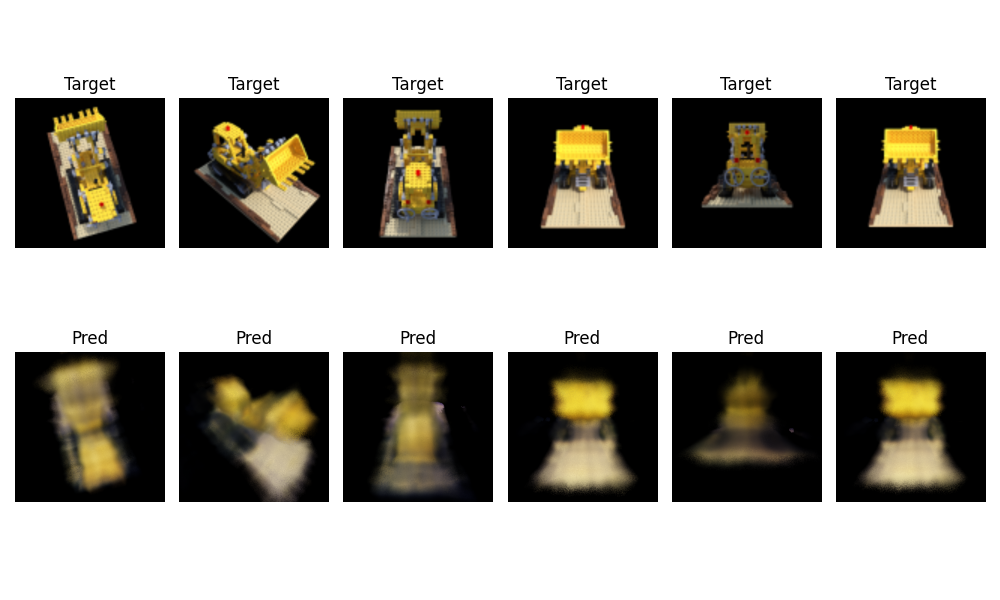
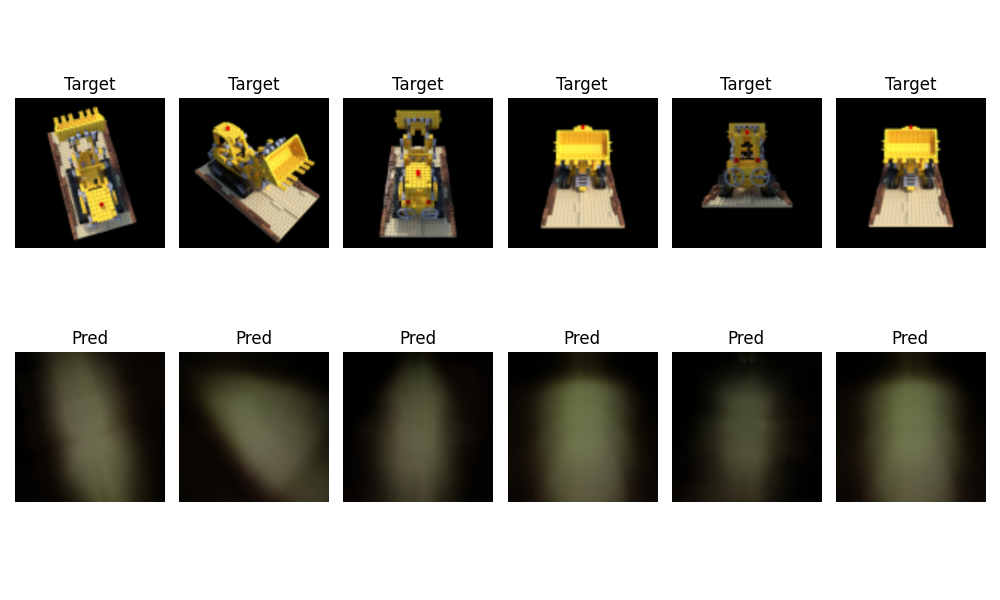
hashencoding

diff --git a/utils/hashencoder/feature_field.py b/utils/hashencoder/feature_field.py
@@ -1,0 +1,80 @@
+
+# Heavily drew from
+# NeRF Studio: https://github.com/nerfstudio-project/nerfstudio/blob/bc9328c7ff70045fce21838122f48ab5201c4ae3/nerfstudio/field_components/encodings.py#L310
+# hashNeRF: https://github.com/yashbhalgat/HashNeRF-pytorch/blob/780f4bb8dedb1d5a9af23fae226973e79cbcc48e/run_nerf_helpers.py#L66
+
+import torch
+import torch.nn as nn
+import math
+class FeatureField(nn.Module): #hashmap_scale=.0001, res=1024
+    def __init__(self, hashmap_scale=1, log2_hashmap_size=19, features_per_level=2, res=1024):
+        super().__init__()
+        self.hashtable_size = 2**log2_hashmap_size
+        self.features_per_level = features_per_level
+        self.res = res
+        # Init the hash table (also i think that it should specify device automatically?????)
+        self.hashtable = torch.rand(size = (self.hashtable_size * 1, features_per_level), device='cuda:0') * 2 - 1 # table_size * levels * features_per_level
+        self.hashtable *= hashmap_scale
+        self.hashtable = nn.Parameter(self.hashtable)
+
+
+    #FOR NOW im assuming x.shape = (3)
+    def encode(self, x):
+        x_reshaped = x.reshape(-1, 3)
+        x_scaled = x_reshaped * self.res
+
+        x_floor = torch.floor(x_scaled).int()
+        x_ceil = torch.ceil(x_scaled).int()
+
+        h0 = self.hash(torch.stack((x_floor[ : , 0], x_floor[ : , 1], x_floor[ : , 2]))) #000
+        h1 = self.hash(torch.stack((x_ceil[ : , 0], x_floor[ : , 1], x_floor[ : , 2]))) #100
+        h2 = self.hash(torch.stack((x_floor[ : , 0], x_ceil[ : , 1], x_floor[ : , 2]))) #010
+        h3 = self.hash(torch.stack((x_floor[ : , 0], x_floor[ : , 1], x_ceil[ : , 2]))) #001
+        h4 = self.hash(torch.stack((x_ceil[ : , 0], x_ceil[ : , 1], x_floor[ : , 2]))) #110
+        h5 = self.hash(torch.stack((x_ceil[ : , 0], x_floor[ : , 1], x_ceil[ : , 2]))) #101
+        h6 = self.hash(torch.stack((x_floor[ : , 0], x_ceil[ : , 1], x_ceil[ : , 2]))) #011
+        h7 = self.hash(torch.stack((x_ceil[ : , 0], x_ceil[ : , 1], x_ceil[ : , 2]))) #111
+
+        # hash all points
+        v0 = self.hashtable[h0]
+        v1 = self.hashtable[h1]
+        v2 = self.hashtable[h2]
+        v3 = self.hashtable[h3]
+        v4 = self.hashtable[h4]
+        v5 = self.hashtable[h5]
+        v6 = self.hashtable[h6]
+        v7 = self.hashtable[h7]
+
+        x_difference = x_scaled - x_floor
+        encoded = self.trilinear_interpolation(x_difference, v0, v1, v2, v3, v4, v5, v6, v7)
+
+        output_shape = x.shape[:-1] + (-1,)
+        return encoded.reshape(output_shape)
+                
+    #assume 1 point
+    def hash(self, x):
+        prime0 = 1
+        prime1 = 2654435761
+        prime2 = 805459861
+        result = (prime0 * x[0]) ^ (prime1 * x[1]) ^ (prime2 * x[2])
+        return result % self.hashtable_size
+
+
+    # https://en.wikipedia.org/wiki/Trilinear_interpolation
+    def trilinear_interpolation(self, p_d, c_000, c_100, c_010, c_001, c_110, c_101, c_011, c_111):
+        #interpolate along x
+        # print(p_d[:, 0][:, None])
+        c_00 = c_000 * (1-p_d[:, 0][:, None]) + c_100 * p_d[:, 0][:, None]
+        c_01 = c_001 * (1-p_d[:, 0][:, None]) + c_101 * p_d[:, 0][:, None]
+        c_10 = c_010 * (1-p_d[:, 0][:, None]) + c_110 * p_d[:, 0][:, None]
+        c_11 = c_010 * (1-p_d[:, 0][:, None]) + c_111 * p_d[:, 0][:, None]
+
+        #interpolate along y
+        c_0 = c_00 * (1-p_d[:, 1][:, None]) + c_10 * p_d[:, 1][:, None]
+        c_1 = c_01 * (1-p_d[:, 1][:, None]) + c_11 * p_d[:, 1][:, None]
+
+        #interpolate along z
+        c = c_0 * (1-p_d[:, 2][:, None]) + c_1 * p_d[:, 2][:, None]
+
+        return c
+        

diff --git a/trainers/slanghash_trainer.py b/trainers/slanghash_trainer.py
@@ -1,4 +1,3 @@
-
 import torch
 import os
 import matplotlib.pyplot as plt
@@ -6,21 +5,23 @@ import time
 from utils.data_loader import DataLoader
 from utils.save_image import save_images
 import numpy as np
+from utils.hashencoder.feature_field import FeatureField
 torch.cuda.empty_cache()
 os.chdir("models/slang_mlp")
 from models.slang_mlp.image_model import RenderImage
 os.chdir("../..")
 
-class SlangTrainer:
+class SlangHashTrainer:
     def __init__(self):
         self.width, self.height = 256, 256
         self.N_samples = 32
         self.C = 32
-        self.embeded = False
+        self.embeded = True
         self.device = 'cuda'
         self.dataset = DataLoader()
         self.model = RenderImage()
         self.loss_fn = torch.nn.MSELoss()
+        self.feature_field = FeatureField(features_per_level = 32).cuda()
         self.params = self.init_params()
         
     def init_params(self):
@@ -33,22 +34,25 @@ class SlangTrainer:
         return [w1, w2, w3, b1, b2, b3]
     
     def train(self, iters, lr=5e-3):
-        optimizer = torch.optim.Adam(self.params, lr=lr) 
+        optimizer = torch.optim.Adam([*self.params, self.feature_field.hashtable], lr=lr)
         start = time.time()
         for i in range(iters):
             img_i = np.random.randint(100)
+            #img_i = 0
+            #get train_data
             x, dists, target_image, viewdirs = self.dataset.get_data(img_i)
-            encoded_x = x    
-            encoded_viewdirs = viewdirs  
-            
+            #hashencoding
+            x = self.feature_field.encode(x)
+            #MLP and volume rendering
             y_pred = self.model.apply(
             self.width, self.height,
-            encoded_x, encoded_viewdirs, dists,
+            x, viewdirs, dists, 
             *self.params)
-            
+            #Compute loss and psnr
             loss = self.loss_fn(y_pred, target_image)
             psnr = -10. * torch.log(loss) / torch.math.log(10.)
-            print(f"Iteration {i}, Loss: {loss.item()}, psnr: {psnr.item()}")            
+            print(f"Iteration {i}, Loss: {loss.item()}, psnr: {psnr.item()}")      
+            #optimize MLP params and hashtable      
             optimizer.zero_grad()
             loss.backward()
             optimizer.step()
@@ -60,15 +64,14 @@ class SlangTrainer:
         target_images = []
         start = time.time()
         test_images = [100,101,102,103,104,105]
+        #test_images = [0,0,0,0,0,0]
         for img_i in  test_images :
             x, dists, target_image, viewdirs = self.dataset.get_data(img_i)
-            encoded_x = x                #encoded_x = embed_fn(x)
-            encoded_viewdirs = viewdirs  #encoded_viewdirs = embed_fn(viewdirs)
+            x = self.feature_field.encode(x)
             y_pred = self.model.apply(
                 self.width, self.height,
-                encoded_x, encoded_viewdirs, dists,
+                x, viewdirs, dists,
                 *self.params)
-            
             loss = self.loss_fn(y_pred, target_image)
             psnr = -10. * torch.log(loss) / torch.math.log(10.)
             print(f"Iteration {img_i}, Loss: {loss.item()}, psnr: {psnr.item()}") 
@@ -78,4 +81,4 @@ class SlangTrainer:
         end = time.time()
         print('avg rendering time:', (end - start)/len(test_images))
         if(saveimg):
-            save_images(target_images, intermediate_images,'slang.png')
+            save_images(target_images, intermediate_images,'slanghash.png')

diff --git a/trainers/torchhash_trainer.py b/trainers/torchhash_trainer.py
@@ -1,0 +1,71 @@
+import torch
+import os
+import time
+from utils.rendering_utils import volume_rendering
+from utils.data_loader import DataLoader
+from utils.encoder import pos_embed
+from utils.save_image import save_images
+import numpy as np
+from models.torch_mlp.mlp import MLP
+from utils.hashencoder.feature_field import FeatureField
+torch.cuda.empty_cache()
+
+class TorchHashTrainer:
+    def __init__(self):
+        self.width, self.height = 256, 256
+        self.N_samples = 32
+        self.C = 32
+        self.device = 'cuda'
+        self.model = MLP(self.C, self.C, self.C).to(self.device)
+        self.dataset = DataLoader()
+        self.feature_field = FeatureField(features_per_level = 32).cuda()
+        self.loss_fn = torch.nn.MSELoss()
+        
+    def train(self, iters, lr = 5e-3): #5e-3
+        optimizer = torch.optim.Adam([ {'params': self.model.parameters()}, 
+                                      {'params': self.feature_field.hashtable}], lr=lr)
+        start = time.time()
+        for i in range(iters):
+            img_i = np.random.randint(100)
+            #img_i = 0
+            #get train_data
+            x, dists, target_image, viewdirs = self.dataset.get_data(img_i)
+            #hashencoding
+            x = self.feature_field.encode(x)
+            viewdirs = (pos_embed(viewdirs)[...,:16]).unsqueeze(2).expand(-1, -1, self.N_samples, -1)
+            #MLP and volume rendering
+            y_pred = self.model(x, viewdirs)
+            y_pred = volume_rendering(y_pred, dists)
+            #Compute loss and psnr
+            loss = self.loss_fn(y_pred, target_image)
+            psnr = -10. * torch.log(loss) / torch.math.log(10.)
+            print(f"Iteration {i}, Loss: {loss.item()}, psnr: {psnr.item()}")
+            #optimize MLP params and hashtable
+            optimizer.zero_grad()
+            loss.backward()
+            optimizer.step()
+        end = time.time()
+        print('avg training time:', (end - start)/iters)
+        
+    def render(self, saveimg):
+        intermediate_images = []
+        target_images = []
+        start = time.time()
+        test_images = [100,101,102,103,104,105]
+        #test_images = [0,0,0,0,0,0]
+        for img_i in test_images:
+            x, dists, target_image, viewdirs = self.dataset.get_data(img_i)
+            x = self.feature_field.encode(x)
+            viewdirs = (pos_embed(viewdirs)[...,:16]).unsqueeze(2).expand(-1, -1, self.N_samples, -1)
+            y_pred = self.model(x, viewdirs)
+            y_pred = volume_rendering(y_pred, dists)
+            loss = self.loss_fn(y_pred, target_image)
+            psnr = -10. * torch.log(loss) / torch.math.log(10.)
+            print(f"Iteration {img_i}, Loss: {loss.item()}, psnr: {psnr.item()}")
+            if(saveimg):
+                intermediate_images.append(y_pred.detach().cpu().numpy())
+                target_images.append(target_image.detach().cpu().numpy())
+        end = time.time()
+        print('avg rendering time:', (end - start)/len(test_images))
+        if(saveimg):
+            save_images(target_images, intermediate_images,'torchhash.png')

diff --git a/utils/hashencoder/hashencoder.py b/utils/hashencoder/hashencoder.py
@@ -1,0 +1,53 @@
+
+import torch
+import math
+class HashEncoder():
+    def __init__(self, num_levels=16, log2_hashmap_size=19, features_per_level=2, min_res=16, max_res=1024):
+        self.num_levels = num_levels
+        self.hashtable_size = 2**log2_hashmap_size
+        self.features_per_level = features_per_level
+        self.min_res = min_res
+        self.max_res = max_res
+
+        
+        #calculate the resolution for each level
+        levels = torch.arange(1, num_levels+1)
+        scaling = torch.exp(levels * (math.log(max_res) - math.log(min_res))/(num_levels - 1 if num_levels > 1 else 1)) # growth_factor ^ level
+        self.resolutions = torch.floor(min_res * scaling)
+
+
+    #FOR NOW im assuming x.shape = (3)
+    def encode(self, x):
+        x_scaled = torch.reshape(self.resolutions, (-1, 1)) * x.repeat(self.num_levels, 1) 
+        x_floor = torch.floor(x_scaled)
+        x_ceil = torch.ceil(x_scaled)
+        p0 = torch.stack((x_floor[..., 0], x_floor[..., 1], x_floor[..., 2]), dim=1)
+        p1 = torch.stack((x_ceil[..., 0], x_floor[..., 1], x_floor[..., 2]), dim=1)
+        p2 = torch.stack((x_floor[..., 0], x_ceil[..., 1], x_floor[..., 2]), dim=1)
+        p3 = torch.stack((x_floor[..., 0], x_floor[..., 1], x_ceil[..., 2]), dim=1)
+        p4 = torch.stack((x_ceil[..., 0], x_ceil[..., 1], x_floor[..., 2]), dim=1)
+        p5 = torch.stack((x_floor[..., 0], x_ceil[..., 1], x_ceil[..., 2]), dim=1)
+        p6 = torch.stack((x_ceil[..., 0], x_floor[..., 1], x_ceil[..., 2]), dim=1)
+        p7 = torch.stack((x_ceil[..., 0], x_ceil[..., 1], x_ceil[..., 2]), dim=1)
+        self.hash(p1)
+        
+        #for each level
+            #x_scaled =  x * gridResolution[level]
+            #x_floor
+            #x_ceil
+
+
+            #if course level where (N_l +1^d <= T) the mapping is 1:1
+            #else 
+                #hash(x_floor)
+                #hash(x_ceil)
+                
+    #assume 1 point
+    def hash(self, x):
+        prime0 = 1
+        prime1 = 2654435761
+        prime2 = 805459861
+        result = (prime0 * x[0]) ^ (prime1 * x[1]) ^ (prime2 * x[2])
+        print("hi")
+        return 0 
+        #return result % self.hashtable_size

diff --git a/models/slang_mlp/image_model.py b/models/slang_mlp/image_model.py
@@ -21,7 +21,8 @@ m = slangpy.loadModule('image-model.slang',
                        defines={
                             'NUM_THREADS_PER_BLOCK': launchBlockSize[0] * launchBlockSize[1] * launchBlockSize[2],
                             'WARP_SIZE': 32})
-class RenderImage(torch.autograd.Function):
+class RenderImage(torch.autograd.Function):    
+    @staticmethod
     def forward(ctx, width, height, feature_grid, viewdirs, dists, *args):
         weights = args[0: 3]
         biases = args[3: 6]
@@ -31,12 +32,13 @@ class RenderImage(torch.autograd.Function):
         blockSize = launchBlockSize
         gridSize = ((width + blockSize[0] - 1) // blockSize[0], 
                     (height + blockSize[1] - 1) // blockSize[1], 1)
-        m.renderImage(mlp=mlp, featureGrid=feature_grid, 
-                      viewDir = viewdirs, dists = dists, 
+        m.renderImage(mlp=mlp, featureGrid=feature_grid,
+                      viewDir = viewdirs, dists = dists,
                       imageOutput=output).launchRaw(blockSize=blockSize, gridSize=gridSize)
         ctx.save_for_backward(output, feature_grid, viewdirs, dists, *args)
         return output
     
+    @staticmethod
     def backward(ctx, grad_output):
         output, feature_grid, viewdir, dists, *args = ctx.saved_tensors
         weights = args[0: 3]
@@ -56,4 +58,4 @@ class RenderImage(torch.autograd.Function):
         m.renderImage.bwd(mlp=mlp, featureGrid=(feature_grid, feature_grid_d), 
                         viewDir=(viewdir, viewdir_d), dists = (dists, dists_d),
                         imageOutput=(output, grad_output)).launchRaw(blockSize=blockSize, gridSize=gridSize)
-        return None, None, feature_grid_d, None, None, *weights_d, *biases_d
+        return None, None, feature_grid_d, None, None,  *weights_d, *biases_d

diff --git a/run.py b/run.py
@@ -3,6 +3,8 @@ import argparse
 from torch.profiler import profile, record_function, ProfilerActivity
 from trainers.torch_trainer import TorchTrainer
 from trainers.slang_trainer import SlangTrainer
+from trainers.torchhash_trainer import TorchHashTrainer
+from trainers.slanghash_trainer import SlangHashTrainer
 
 def main(trainer_type):
     torch.cuda.empty_cache()
@@ -10,15 +12,19 @@ def main(trainer_type):
         model = SlangTrainer()
     elif trainer_type == "torch":
         model = TorchTrainer()
+    elif trainer_type == "slanghash":
+        model = SlangHashTrainer()
+    elif trainer_type == "torchhash":
+        model = TorchHashTrainer()
     else:
         raise ValueError("Invalid trainer type. Please provide 'slang' or 'torch'.")
-    model.train(iters=1000)
+    model.train(iters=300)
     model.render(saveimg=True)
 
 if __name__ == '__main__':
     parser = argparse.ArgumentParser(description='Train and render a model.')
-    parser.add_argument('trainer_type', choices=['slang', 'torch'],
-                        help='Type of trainer to use: "slang" or "torch"')
+    parser.add_argument('trainer_type', choices=['slang', 'torch', 'slanghash', 'torchhash'],
+                        help='Type of trainer to use: "slang", "torch","slanghash","torchhash"')
     args = parser.parse_args()
     main(args.trainer_type)
     
